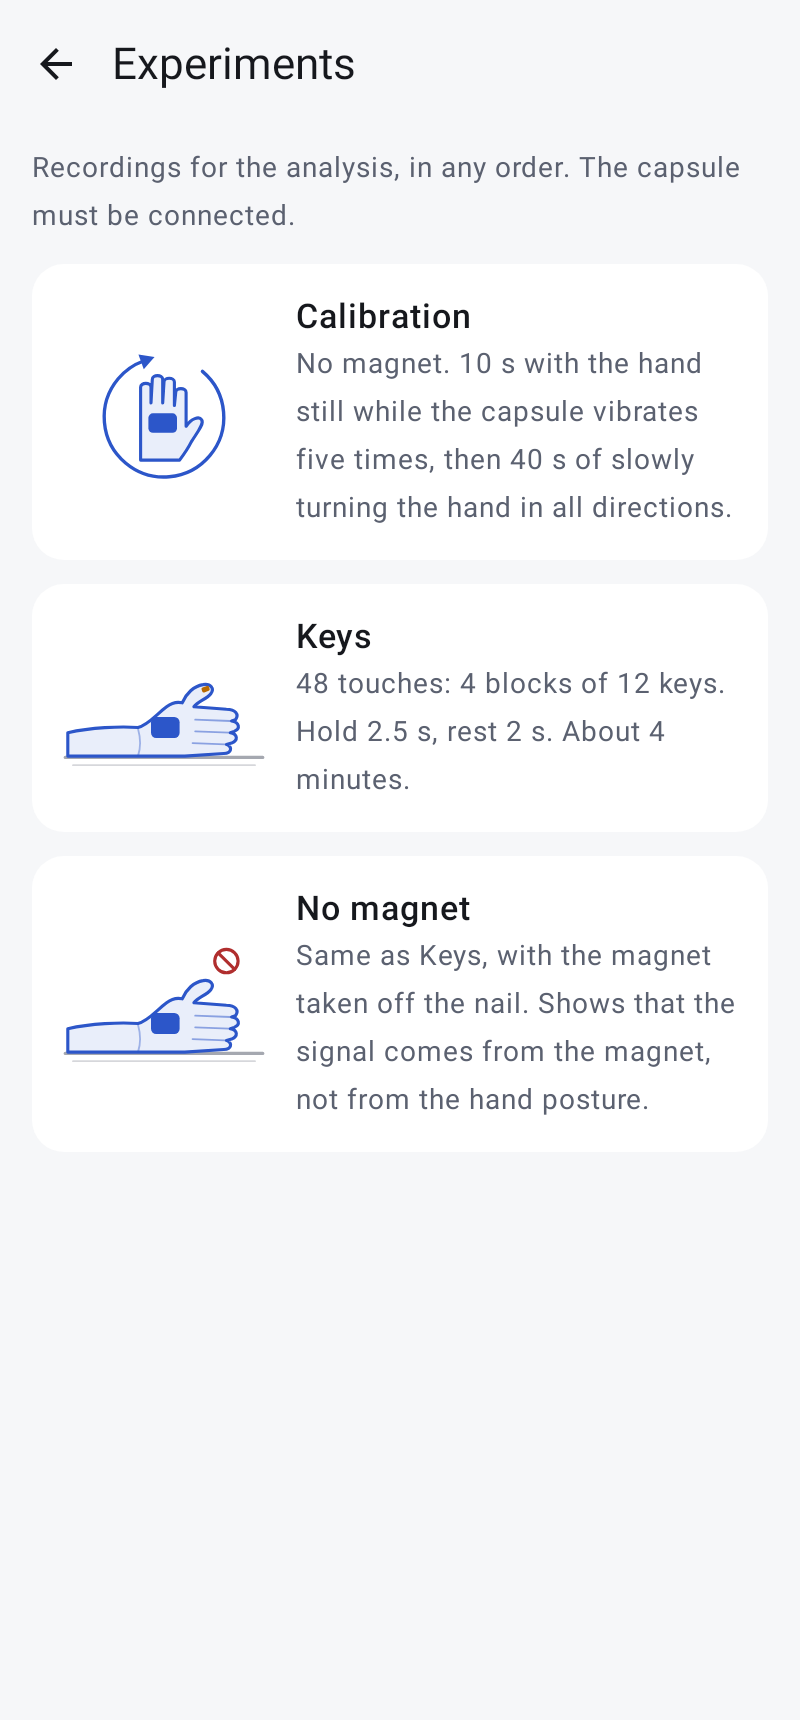
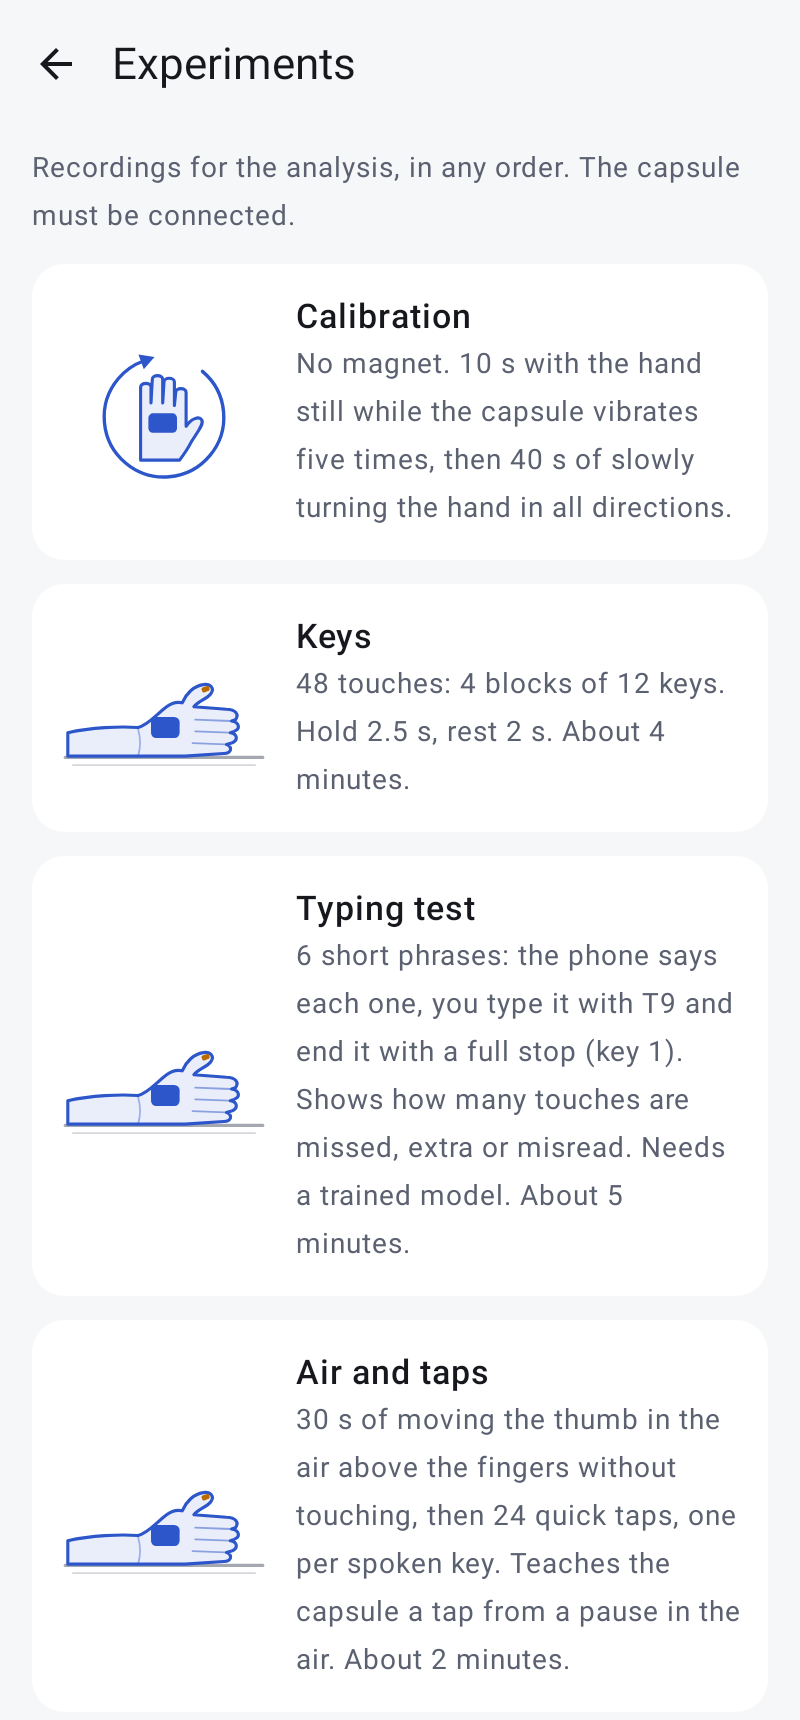
Erase on *, next word on # (#19)
In the typing recording for 'hi pretty how are you' (TYPE_20261120-162017)
key 9 was taken 17 times where 3 were needed, and erasing with # did not
work. # (little finger tip) sits 4.5 uT from 9 (ring finger tip) in
TRAIN_20261120-161733, closer than one key's touches spread (1-5 uT), so an
erase read as 9 added a letter instead of taking one away, and the next
erase did it again. * is 26.6 uT from its nearest key: erase moves there,
and 'next word' to #, where a misread only changes the word variant.

Keys.ERASE / Keys.NEXT name the two; README, keypad drawing, settings text
and screenshots follow.

Claude-Session: https://claude.ai/code/session_01F5j466bbtpUkmFb5iPJXPh

diff --git a/android/app/src/test/java/com/telehaptic/app/core/ModelTest.kt b/android/app/src/test/java/com/telehaptic/app/core/ModelTest.kt
@@ -109,13 +109,13 @@ class ModelTest {
         "43556".forEach { typing.key(it.toString()) }
         typing.key("0")
         "4663".forEach { typing.key(it.toString()) }
-        typing.key("*")
+        typing.key("#")
         assertEquals("hello home", typing.display())
-        typing.key("#")
+        typing.key("*")
         assertEquals("hello goo", typing.display())    // "466" = beginning of "good"
-        typing.key("#"); typing.key("#"); typing.key("#")
+        typing.key("*"); typing.key("*"); typing.key("*")
         assertEquals("hello ", typing.display())        // the digits are gone, the space stays
-        typing.key("#")
+        typing.key("*")
         assertEquals("hello", typing.display())
     }
 
@@ -130,9 +130,9 @@ class ModelTest {
         val t = Typing(t9)
         for (k in "43556" + "0") t.key(k.toString())
         assertEquals("hello ", t.display())
-        t.key("#"); assertEquals("hello", t.display())        // the space
-        t.key("#"); assertEquals("hell", t.display())         // back into the word, last letter gone
-        t.key("#"); t.key("7"); assertEquals("help", t.display())   // continues the same word
+        t.key("*"); assertEquals("hello", t.display())        // the space
+        t.key("*"); assertEquals("hell", t.display())         // back into the word, last letter gone
+        t.key("*"); t.key("7"); assertEquals("help", t.display())   // continues the same word
         t.key("0"); assertEquals("help ", t.display())
     }
 
@@ -146,7 +146,7 @@ class ModelTest {
         assertEquals("43456", t.digits)
         assertEquals("hello", t.currentWord())
         assertEquals(listOf(2), t.corrected())          // the third letter is the word list's, not the model's
-        t.key("#")
+        t.key("*")
         assertEquals("4345", t.digits)                 // erase takes the last press away
         // Two misread keys in one word are not overruled: the keys are shown as typed.
         val two = Typing(t9)

diff --git a/android/app/src/main/java/com/telehaptic/app/TypingController.kt b/android/app/src/main/java/com/telehaptic/app/TypingController.kt
@@ -1,6 +1,7 @@
 package com.telehaptic.app
 
 import android.os.SystemClock
+import com.telehaptic.app.core.Keys
 import com.telehaptic.app.core.Kind
 import com.telehaptic.app.core.PlanSettings
 import com.telehaptic.app.core.T9
@@ -174,7 +175,7 @@ class TypingController(private val app: App) {
         // Possible correction: a letter key erased right away, then another letter key. Only keys 2-9:
         // an erased space or full stop was usually meant, it is the word that changes.
         val letter = { k: String -> k.length == 1 && k[0] in '2'..'9' }
-        if (r.key == "#") {
+        if (r.key == Keys.ERASE) {
             erased = lastTouch?.takeIf { letter(it.first) }?.second
         } else {
             erased?.let { x -> if (letter(r.key)) corrections.add(Touch(r.key, x, "typing", "correction")) }
@@ -210,8 +211,8 @@ class TypingController(private val app: App) {
         when (k) {
             "0" -> app.cues.say(said.ifEmpty { "space" })
             "1" -> app.cues.say(if (word.isEmpty()) "full stop" else "$said, full stop")
-            "*" -> app.cues.say(spoken(t.currentWord()).ifEmpty { "no other word" } + if (t.corrected().isNotEmpty()) ", corrected" else "")
-            "#" -> {
+            Keys.NEXT -> app.cues.say(spoken(t.currentWord()).ifEmpty { "no other word" } + if (t.corrected().isNotEmpty()) ", corrected" else "")
+            Keys.ERASE -> {
                 // Say what is left, so a correction can be followed by ear.
                 val erased = before.lastOrNull()
                 val now = t.currentWord()

diff --git a/android/app/src/main/java/com/telehaptic/app/core/Plan.kt b/android/app/src/main/java/com/telehaptic/app/core/Plan.kt
@@ -8,7 +8,16 @@ object Keys {
     private val FINGERS = listOf("index", "middle", "ring", "little")
     private val PHALANGES = listOf("segment near the palm", "middle segment", "tip segment")
 
-    private val LETTERS = listOf(".", "abc", "def", "ghi", "jkl", "mno", "pqrs", "tuv", "wxyz", "next", "space", "erase")
+    /**
+     * Erase is on * (little finger, segment near the palm) and "next word" on # (its tip). # sits
+     * 4.5 uT from 9 (ring finger tip) in TRAIN_20261120-161733, and erase read as 9 typed a letter
+     * instead of taking one away; * is 26.6 uT from its nearest key. A misread # now only changes
+     * the word variant.
+     */
+    const val ERASE = "*"
+    const val NEXT = "#"
+
+    private val LETTERS = listOf(".", "abc", "def", "ghi", "jkl", "mno", "pqrs", "tuv", "wxyz", "erase", "space", "next")
 
     /** What a key does in typing: its T9 letters, or its function. */
     fun letters(key: String) = LETTERS.getOrElse(ALL.indexOf(key)) { "" }

diff --git a/android/app/src/main/java/com/telehaptic/app/core/T9.kt b/android/app/src/main/java/com/telehaptic/app/core/T9.kt
@@ -4,8 +4,8 @@ import kotlin.math.ln
 
 /**
  * T9 for English: keys 2-9 carry letters as on phone keypads (ITU E.161), words come from a
- * frequency list. 0 = space (accepts the word), 1 = full stop, * = next variant of the word,
- * # = erase.
+ * frequency list. 0 = space (accepts the word), 1 = full stop, # = next variant of the word,
+ * * = erase (see [Keys.ERASE]).
  *
  * A press may be uncertain ("soft T9"): it is 8 probabilities, one per letter key. A word's
  * keys are compared with the presses, so the word list can overrule a press the model was
@@ -143,8 +143,8 @@ class Typing(private val t9: T9) {
             }
             "0" -> { commit(); text.append(' ') }
             "1" -> { commit(); text.append('.') }
-            "*" -> if (presses.isNotEmpty()) variant++
-            "#" -> erase()
+            Keys.NEXT -> if (presses.isNotEmpty()) variant++
+            Keys.ERASE -> erase()
         }
     }
 

diff --git a/android/app/src/main/java/com/telehaptic/app/ui/Tools.kt b/android/app/src/main/java/com/telehaptic/app/ui/Tools.kt
@@ -192,7 +192,7 @@ fun SettingsScreen(nav: Nav) {
             Row(Modifier.fillMaxWidth().toggleable(value = speak, role = Role.Switch) { speak = it; p.speakTyping = it }, verticalAlignment = Alignment.CenterVertically) {
                 Column1(Modifier.weight(1f)) {
                     Text("Speak while typing")
-                    Muted("The word on space and full stop, the new word on *, \"erase\" on #.")
+                    Muted("The word on space and full stop, the new word on #, \"erase\" on *.")
                 }
                 Spacer(Modifier.width(12.dp))
                 Switch(checked = speak, onCheckedChange = null)

diff --git a/android/app/src/main/java/com/telehaptic/app/ui/Learn.kt b/android/app/src/main/java/com/telehaptic/app/ui/Learn.kt
@@ -379,7 +379,7 @@ fun TypingScreen(nav: Nav, test: Boolean = false) {
                 }
             }
             Text(shown, fontSize = 28.sp, lineHeight = 36.sp, modifier = Modifier.fillMaxWidth().heightIn(min = 110.dp))
-            if (u.corrected.isNotEmpty()) Muted("Underlined: corrected by the word list. Not this word? * gives the others.")
+            if (u.corrected.isNotEmpty()) Muted("Underlined: corrected by the word list. Not this word? # gives the others.")
         }
         if (u.candidates.isNotEmpty()) {
             FlowRow(horizontalArrangement = Arrangement.spacedBy(8.dp)) {

diff --git a/README.md b/README.md
@@ -8,8 +8,8 @@ Palm side, fingers pointing right:
 
 - **Finger = row:** index 1 2 3, middle 4 5 6, ring 7 8 9, little * 0 #.
 - **Phalanx = column**, from the palm to the tip, so the keys sit as on a phone keypad.
-- **Letters** as on phone keys (T9). 1 = full stop, 0 = space, * = next word, # = erase.
-- **Soft T9:** every letter touch reaches the word list with the model's probabilities for all keys, not as one fixed key. A far more common word can overrule one doubtful touch per word; the other readings stay in the list under *. Corrected letters are underlined and the word is said with "corrected"; Settings → "Correct keys by the word list" turns it off (classic T9).
+- **Letters** as on phone keys (T9). 1 = full stop, 0 = space, * = erase, # = next word. Erase is on * because # (little finger tip) sits next to 9 (ring finger tip) and was misread as it.
+- **Soft T9:** every letter touch reaches the word list with the model's probabilities for all keys, not as one fixed key. A far more common word can overrule one doubtful touch per word; the other readings stay in the list under #. Corrected letters are underlined and the word is said with "corrected"; Settings → "Correct keys by the word list" turns it off (classic T9).
 - **N:** the magnet on the thumbnail.
 - **S1, S2 (dashed):** the two magnetometers on the back of the hand, behind the knuckles of the index and little fingers. The bar is the distance between them that the app asks for.
 
